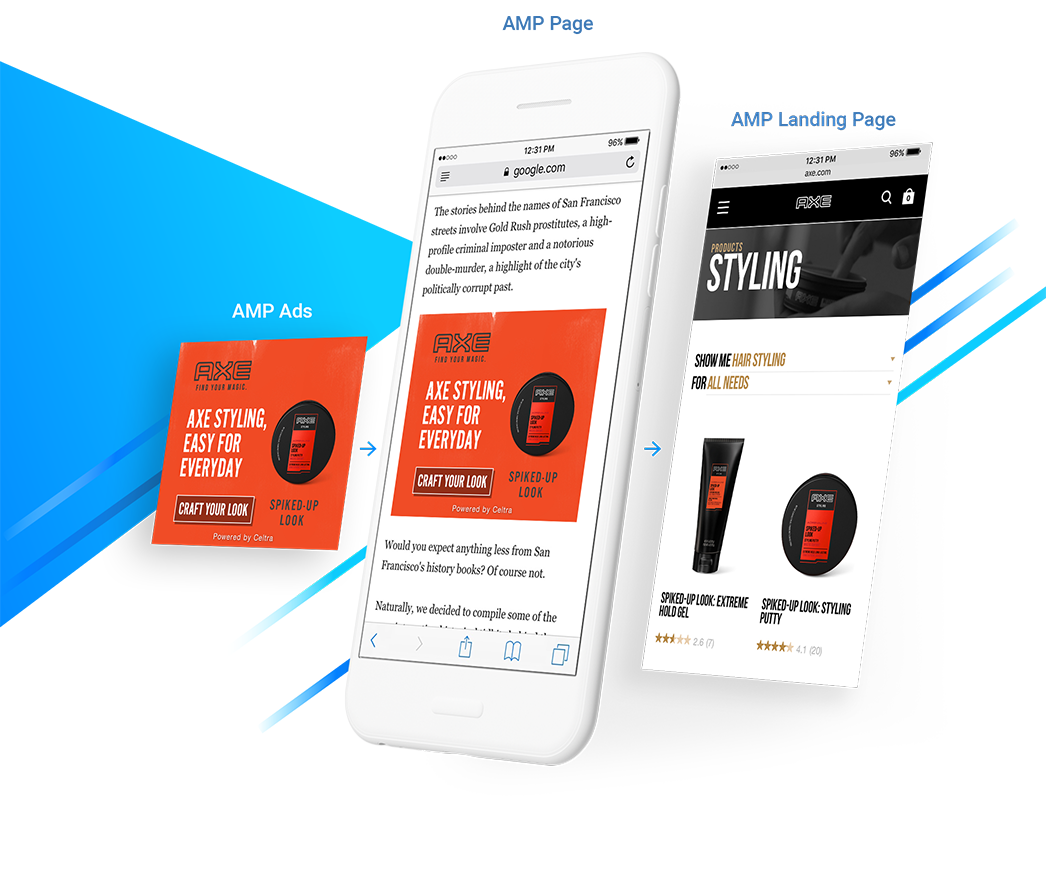
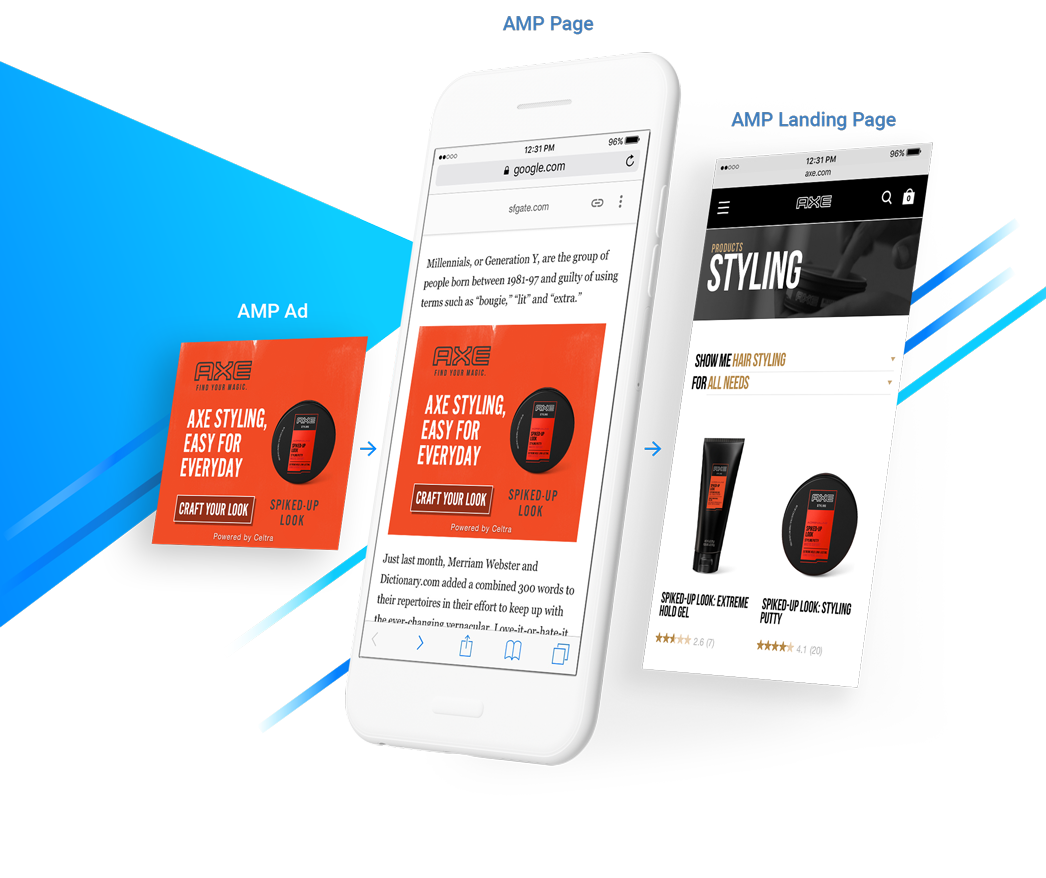
End to end experience section updates

diff --git a/views/amp-ads.html b/views/amp-ads.html
@@ -246,7 +246,7 @@
         src="/static/img/about/who-use-amp/amp-ads/experience/shape_2.svg">
     </amp-img>
     <div class="logo ads">
-      {{_('AMP Ads')}}
+      {{_('AMP Ad')}}
     </div>
     <div class="logo landing-page">
       {{_('AMP Landing Page')}}
